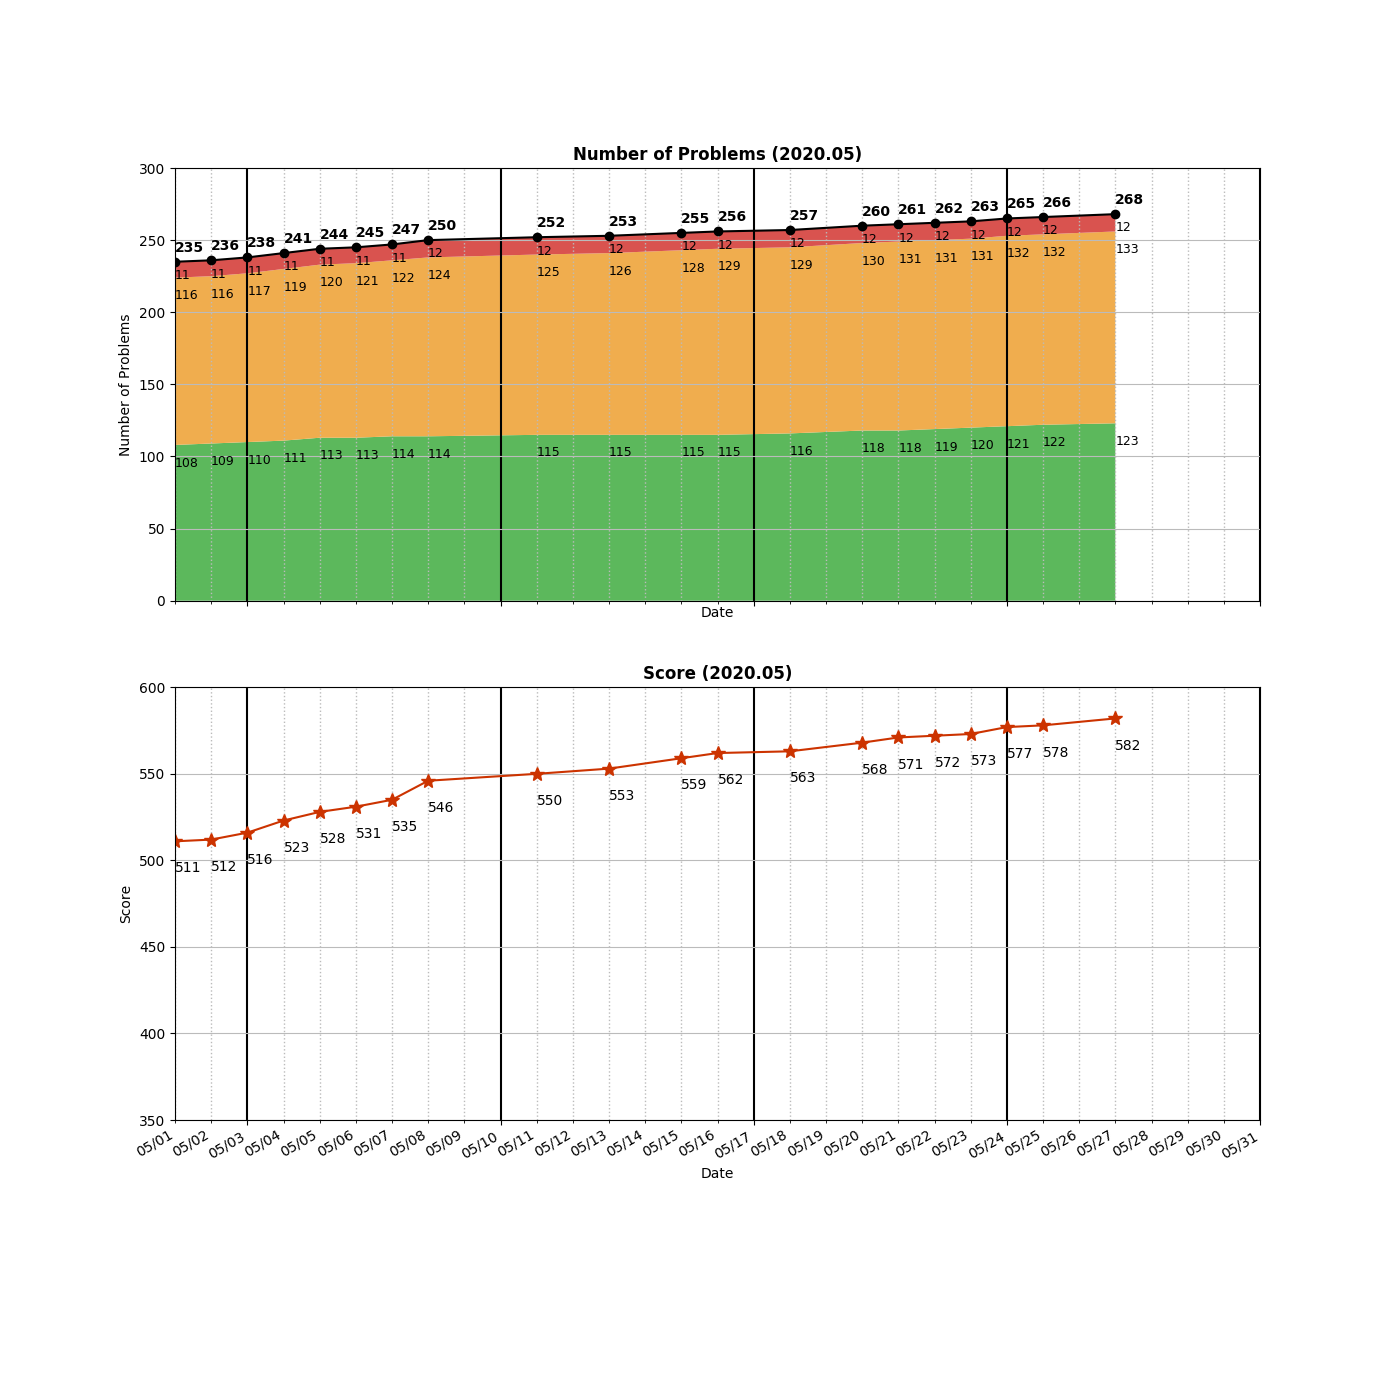
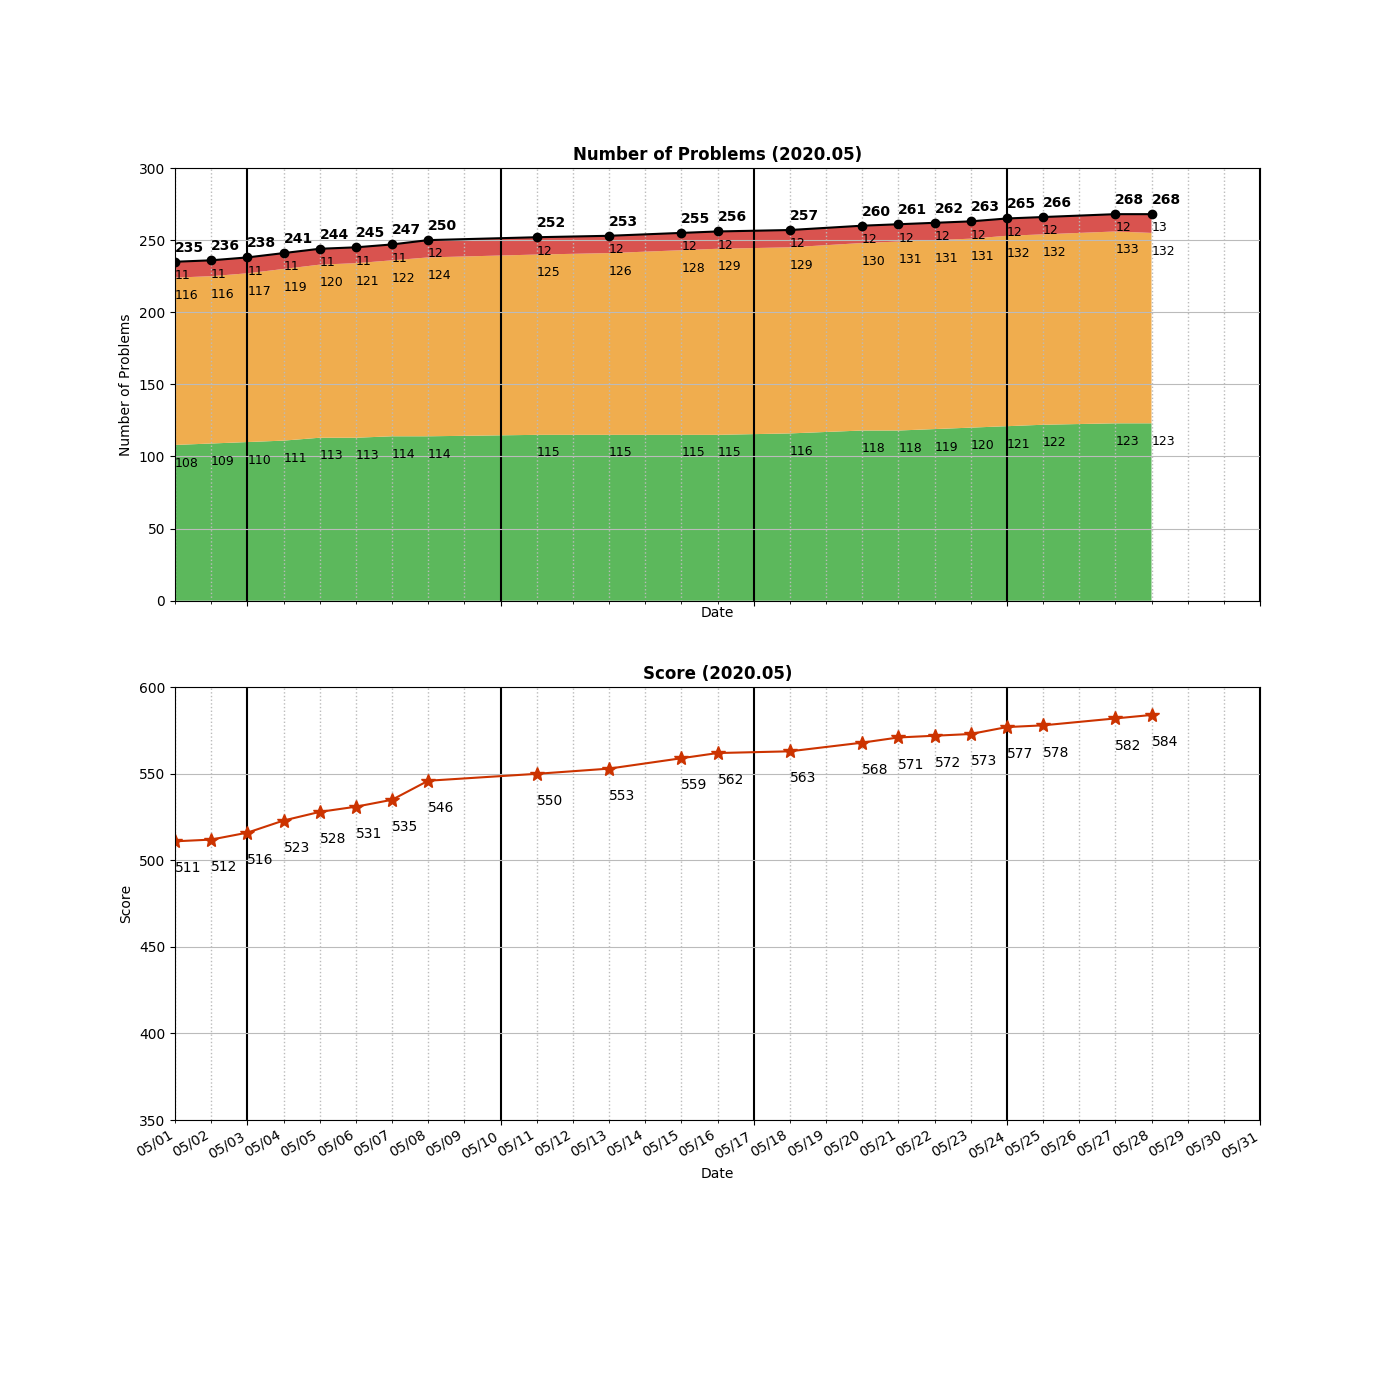
Reviewed _0322_CoinChange.py

Changed region(s): [[0.7986, 0.1536, 0.8293, 0.43], [0.7986, 0.4914, 0.8293, 0.5221]]

diff --git a/README.md b/README.md
@@ -836,10 +836,10 @@ Num of Python Practice:  264
  1427 Perform String Shifts
 =====================================
 Solved / Total (Easy)  :  123 /  408
-Solved / Total (Medium):  133 /  745
-Solved / Total (Hard)  :   12 /  305
+Solved / Total (Medium):  132 /  744
+Solved / Total (Hard)  :   13 /  306
 Solved / Total (All)   :  268 / 1458
-Total Score            :  582
+Total Score            :  584
 =====================================
 
 ```
